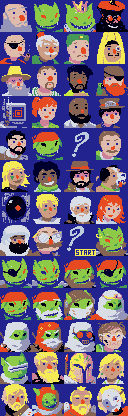
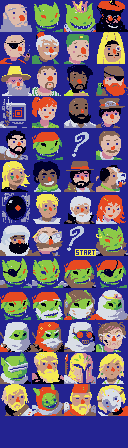
update character art, a few scripts

diff --git a/source/data/character_art.h b/source/data/character_art.h
@@ -3,13 +3,13 @@
 
 //======================================================================
 //
-//	character_art, 128x416@4, 
+//	character_art, 128x448@4, 
 //	Transparent color : FF,00,FF
 //	+ palette 16 entries, not compressed
-//	+ 832 tiles Metatiled by 4x4 not compressed
-//	Total size: 32 + 26624 = 26656
+//	+ 896 tiles Metatiled by 4x4 not compressed
+//	Total size: 32 + 28672 = 28704
 //
-//	Time-stamp: 2025-12-04, 13:08:25
+//	Time-stamp: 2025-12-04, 16:32:31
 //	Exported by Cearn's GBA Image Transmogrifier, v0.9.2
 //	( http://www.coranac.com/projects/#grit )
 //
@@ -18,8 +18,8 @@
 #ifndef GRIT_CHARACTER_ART_H
 #define GRIT_CHARACTER_ART_H
 
-#define character_artTilesLen 26624
-extern const unsigned int character_artTiles[6656];
+#define character_artTilesLen 28672
+extern const unsigned int character_artTiles[7168];
 
 #define character_artPalLen 32
 extern const unsigned short character_artPal[16];
